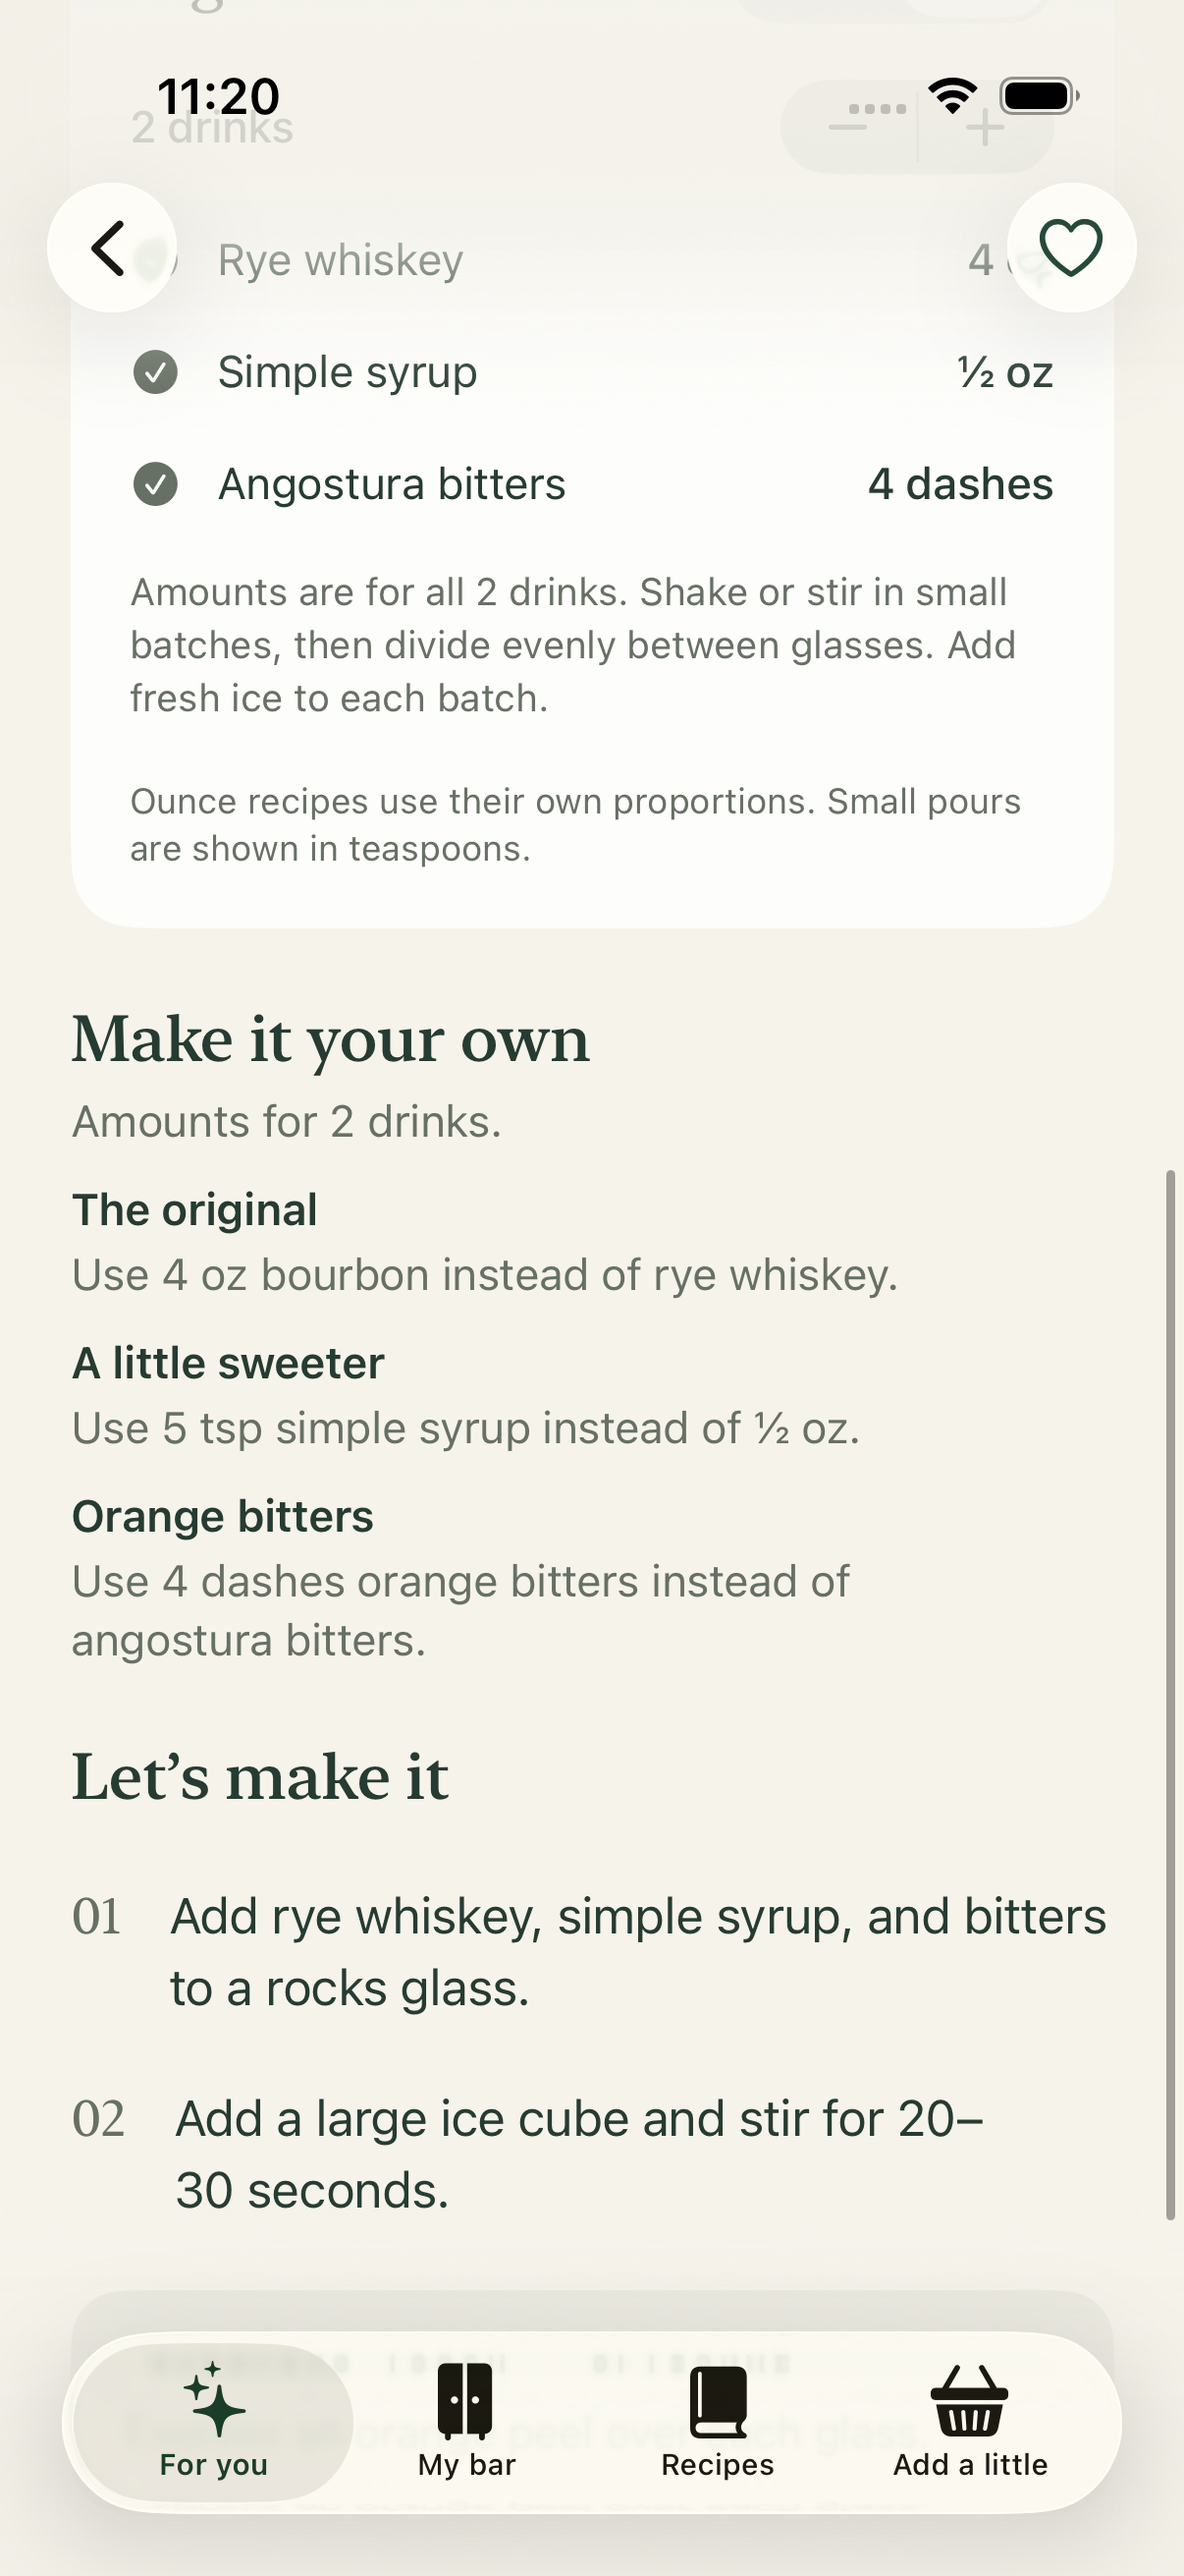
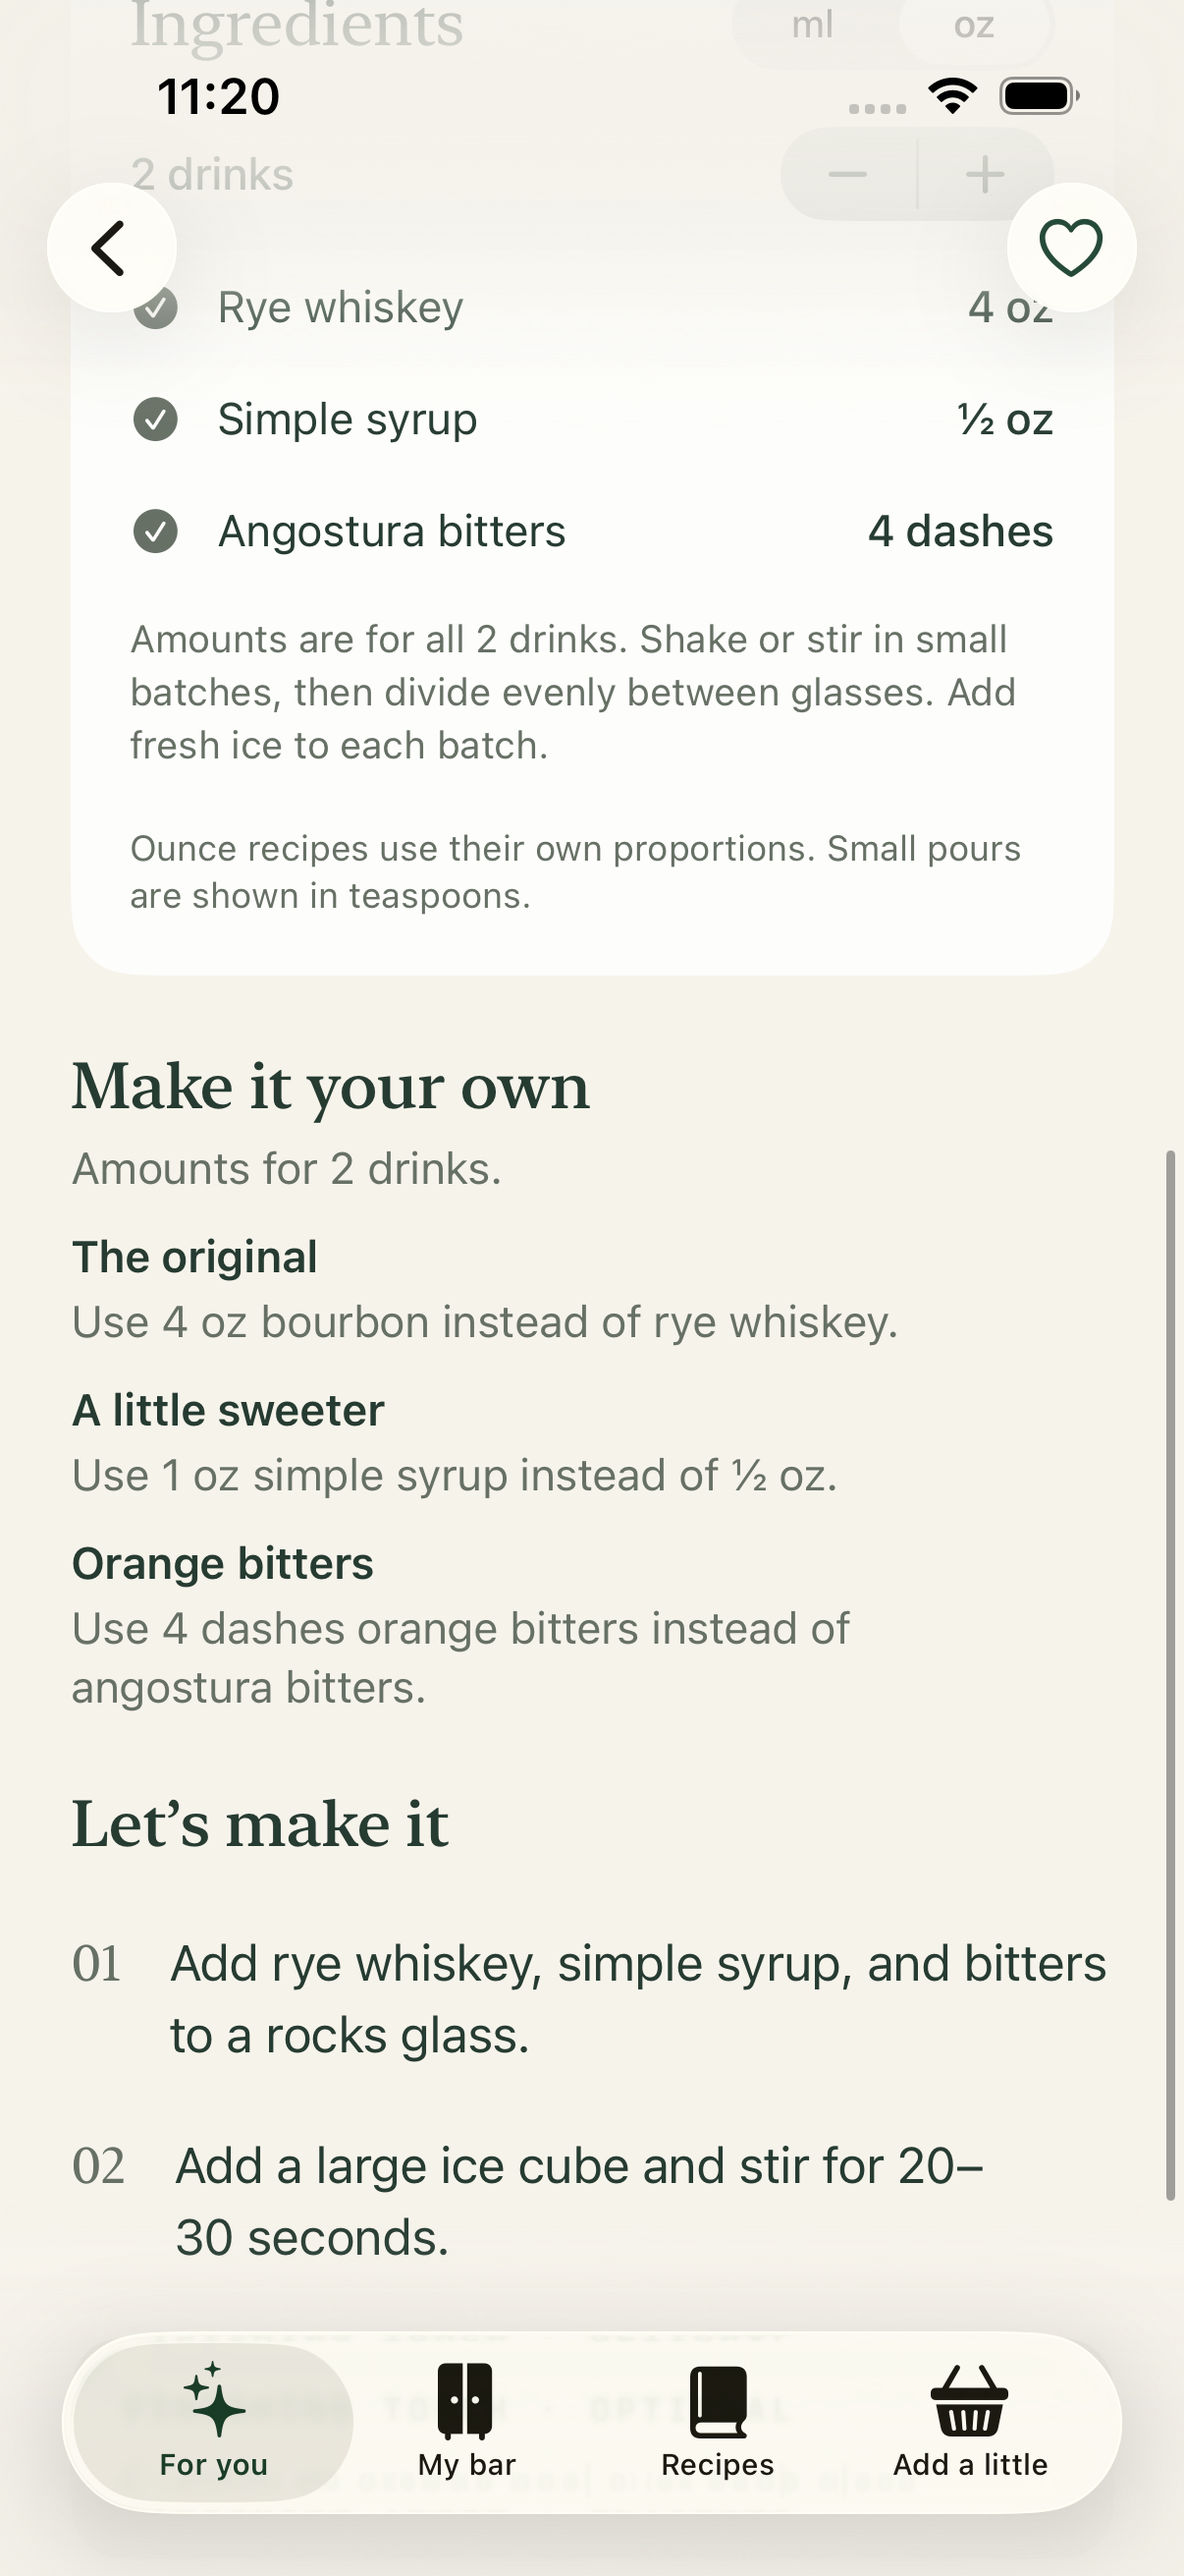
Keep recipe adjustment amounts in consistent units

diff --git a/Sources/PourCore/Catalog.swift b/Sources/PourCore/Catalog.swift
@@ -55,7 +55,7 @@ public enum Catalog {
                [.init("bourbon", 60, imperial: .oz(2)), .init("syrup", 7.5, imperial: .oz(0.25)), .init("angostura", 2, .dash)],
                ["Add bourbon, simple syrup, and bitters to a rocks glass.", "Add a large ice cube and stir for 20–30 seconds."],
                garnish: "Express an orange peel over each glass.", variations: [
-                Variation(id: "sweeter", name: "A little sweeter", note: "Use the increased syrup amount below for a sweeter drink. Taste before adding more.", ingredients: [.init("bourbon", 60, imperial: .oz(2)), .init("syrup", 12.5, imperial: .tsp(2.5)), .init("angostura", 2, .dash)]),
+                Variation(id: "sweeter", name: "A little sweeter", note: "Use the increased syrup amount below for a sweeter drink. Taste before adding more.", ingredients: [.init("bourbon", 60, imperial: .oz(2)), .init("syrup", 12.5, imperial: .oz(0.5)), .init("angostura", 2, .dash)]),
                 Variation(id: "orange", name: "Orange bitters", note: "Swap aromatic bitters for orange bitters for a brighter, less spicy drink.", ingredients: [.init("bourbon", 60, imperial: .oz(2)), .init("syrup", 7.5, imperial: .oz(0.25)), .init("orange-bitters", 2, .dash)]),
                 Variation(id: "rye", name: "Rye Old Fashioned", note: "Use rye whiskey instead of bourbon for a drier, spicier drink.", ingredients: [.init("rye", 60, imperial: .oz(2)), .init("syrup", 7.5, imperial: .oz(0.25)), .init("angostura", 2, .dash)], steps: ["Add rye whiskey, simple syrup, and bitters to a rocks glass.", "Add a large ice cube and stir for 20–30 seconds."])]),
         recipe("negroni", "Negroni", "Bitter, bold, beautifully balanced.", "Gin", "Rocks", "red",
@@ -67,7 +67,7 @@ public enum Catalog {
                 Variation(id: "sweeter", name: "Soften the citrus", note: "Add the agave syrup listed below to round out the lime.", ingredients: [.init("tequila", 50, imperial: .oz(2)), .init("triple-sec", 25, imperial: .oz(1)), .init("lime", 25, imperial: .oz(1)), .init("agave", 5, imperial: .tsp(1))])]),
         recipe("daiquiri", "Daiquiri", "Three ingredients. Nothing to hide.", "Rum", "Coupe", "lime",
                [.init("rum", 60, imperial: .oz(2)), .init("lime", 25, imperial: .oz(0.75)), .init("syrup", 15, imperial: .oz(0.5))], shake, variations: [
-                Variation(id: "dry", name: "A touch drier", note: "Use the reduced syrup amount below for a sharper finish.", ingredients: [.init("rum", 60, imperial: .oz(2)), .init("lime", 25, imperial: .oz(0.75)), .init("syrup", 10, imperial: .tsp(2))])]),
+                Variation(id: "dry", name: "A touch drier", note: "Use the reduced syrup amount below for a sharper finish.", ingredients: [.init("rum", 60, imperial: .oz(2)), .init("lime", 25, imperial: .oz(0.75)), .init("syrup", 10, imperial: .oz(0.25))])]),
         recipe("whiskey-sour", "Whiskey Sour", "A bright, silky whiskey classic.", "Whiskey", "Rocks", "amber",
                [.init("bourbon", 60, imperial: .oz(2)), .init("lemon", 30, imperial: .oz(1)), .init("syrup", 20, imperial: .oz(0.75))],
                ["Add all ingredients to a shaker with ice.", "Shake hard for 10–15 seconds.", "Strain into a rocks glass over fresh ice."], garnish: "Add a lemon slice or cocktail cherry. This version is made without egg white.", variations: [

diff --git a/Tests/PourCoreTests/PourCoreTests.swift b/Tests/PourCoreTests/PourCoreTests.swift
@@ -80,8 +80,8 @@ final class PourCoreTests: XCTestCase {
         XCTAssertEqual(negroni.ingredients.map { $0.formatted(servings: 1, unit: .oz) }, ["1 oz", "1 oz", "1 oz"])
         let sweeter = try XCTUnwrap(Catalog.recipes.first { $0.id == "old-fashioned" }?.variations.first)
         let syrup = try XCTUnwrap(sweeter.ingredients.first { $0.ingredientID == "syrup" })
-        XCTAssertEqual(syrup.formatted(servings: 1, unit: .oz), "2½ tsp")
-        XCTAssertEqual(syrup.formatted(servings: 2, unit: .oz), "5 tsp")
+        XCTAssertEqual(syrup.formatted(servings: 1, unit: .oz), "½ oz")
+        XCTAssertEqual(syrup.formatted(servings: 2, unit: .oz), "1 oz")
     }
 
     func testCuratedWhiskeySwapsUnlockRecipesAndPreferOriginals() throws {
@@ -144,12 +144,29 @@ final class PourCoreTests: XCTestCase {
         let recipe = try XCTUnwrap(Catalog.recipes.first { $0.id == "old-fashioned" })
         let sweeter = try XCTUnwrap(recipe.variations.first { $0.id == "sweeter" })
         XCTAssertEqual(RecipeAdjustments.instructions(from: recipe.ingredients, to: sweeter.ingredients, servings: 1, unit: .oz),
-                       ["Use 2½ tsp simple syrup instead of ¼ oz."])
+                       ["Use ½ oz simple syrup instead of ¼ oz."])
         XCTAssertEqual(RecipeAdjustments.instructions(from: recipe.ingredients, to: sweeter.ingredients, servings: 2, unit: .ml),
                        ["Use 25 ml simple syrup instead of 15 ml."])
         XCTAssertEqual(RecipeAdjustments.instructions(from: recipe.ingredients, to: sweeter.ingredients, servings: 2, unit: .oz),
-                       ["Use 5 tsp simple syrup instead of ½ oz."])
+                       ["Use 1 oz simple syrup instead of ½ oz."])
         XCTAssertTrue(RecipeAdjustments.instructions(from: recipe.ingredients, to: recipe.ingredients, servings: 1, unit: .oz).isEmpty)
+    }
+
+    func testVariationsKeepTheSameImperialUnitAsTheOriginalIngredient() throws {
+        for recipe in Catalog.recipes {
+            for variation in recipe.variations {
+                for ingredient in variation.ingredients {
+                    if let original = recipe.ingredients.first(where: { $0.ingredientID == ingredient.ingredientID }) {
+                        XCTAssertEqual(ingredient.imperial?.label, original.imperial?.label,
+                                       "\(recipe.name): \(variation.name), \(ingredient.ingredientID)")
+                    }
+                }
+            }
+        }
+        let daiquiri = try XCTUnwrap(Catalog.recipes.first { $0.id == "daiquiri" })
+        let dry = try XCTUnwrap(daiquiri.variations.first { $0.id == "dry" })
+        XCTAssertEqual(RecipeAdjustments.instructions(from: daiquiri.ingredients, to: dry.ingredients, servings: 1, unit: .oz),
+                       ["Use ¼ oz simple syrup instead of ½ oz."])
     }
 
     func testMixingTipsDescribeSwapsRelativeToDisplayedRecipe() throws {

diff --git a/PourUITests/PourUITests.swift b/PourUITests/PourUITests.swift
@@ -88,7 +88,7 @@ final class PourUITests: XCTestCase {
             app.swipeDown()
         }
         XCTAssertTrue(originalTip.isHittable)
-        XCTAssertTrue(app.staticTexts["Use 5 tsp simple syrup instead of ½ oz."].exists)
+        XCTAssertTrue(app.staticTexts["Use 1 oz simple syrup instead of ½ oz."].exists)
         XCTAssertFalse(app.buttons["variation-original"].exists)
         capture("Simple mixing tips", app)
         // Reading the tips leaves the recommended rye recipe intact.

diff --git a/README.md b/README.md
@@ -28,7 +28,7 @@ A recipe is available when every required ingredient for its original version or
 
 Shopping recommendations evaluate every useful one- and two-ingredient purchase. They count each newly available drink once across its original and curated variations, rank by that count, prefer fewer purchases on ties, and discard pairs if either ingredient contributes no additional recipes. Drinks already possible with a substitution are excluded. Prices and bottle sizes are not modeled.
 
-Every volume ingredient has independently authored metric and imperial quantities. Switching units selects that recipe specification, then scales it by servings. Ounces use familiar fractions such as ¾ oz and 1½ oz; small pours use teaspoons. The two specifications are practical recipe proportions, not exact conversions. Mint leaves and bitters dashes scale without volume conversion. Multi-serving recipes advise mixing in small batches.
+Every volume ingredient has independently authored metric and imperial quantities. Switching units selects that recipe specification, then scales it by servings. Ounces use familiar fractions such as ¾ oz and 1½ oz; small pours use teaspoons. Adjustment tips keep the original ingredient’s unit so quantities are directly comparable. The two specifications are practical recipe proportions, not exact conversions. Mint leaves and bitters dashes scale without volume conversion. Multi-serving recipes advise mixing in small batches.
 
 The ingredient parser uses explicit names and aliases. It does not infer brands or parse arbitrary conversation. For example, “limes” matches lime juice, while “rum” asks for a more specific entry such as “white rum.” Recipe variants are hand-authored and never combined automatically. Rye can replace bourbon in the Old Fashioned, Whiskey Sour, and Boulevardier; the Manhattan already offers bourbon in place of rye. Other supported variations include orange bitters in an Old Fashioned and aquafaba in a Clover Club. Suggested versions are labeled in discovery, recipe lists, and shopping results, and open with the selected ingredients and instructions. “Make it your own” shows each adjustment as a self-contained tip without undoing other swaps. When viewing a substitution, a separate tip explains how to make the original. Reading tips does not change the ingredient list or instructions.
 
